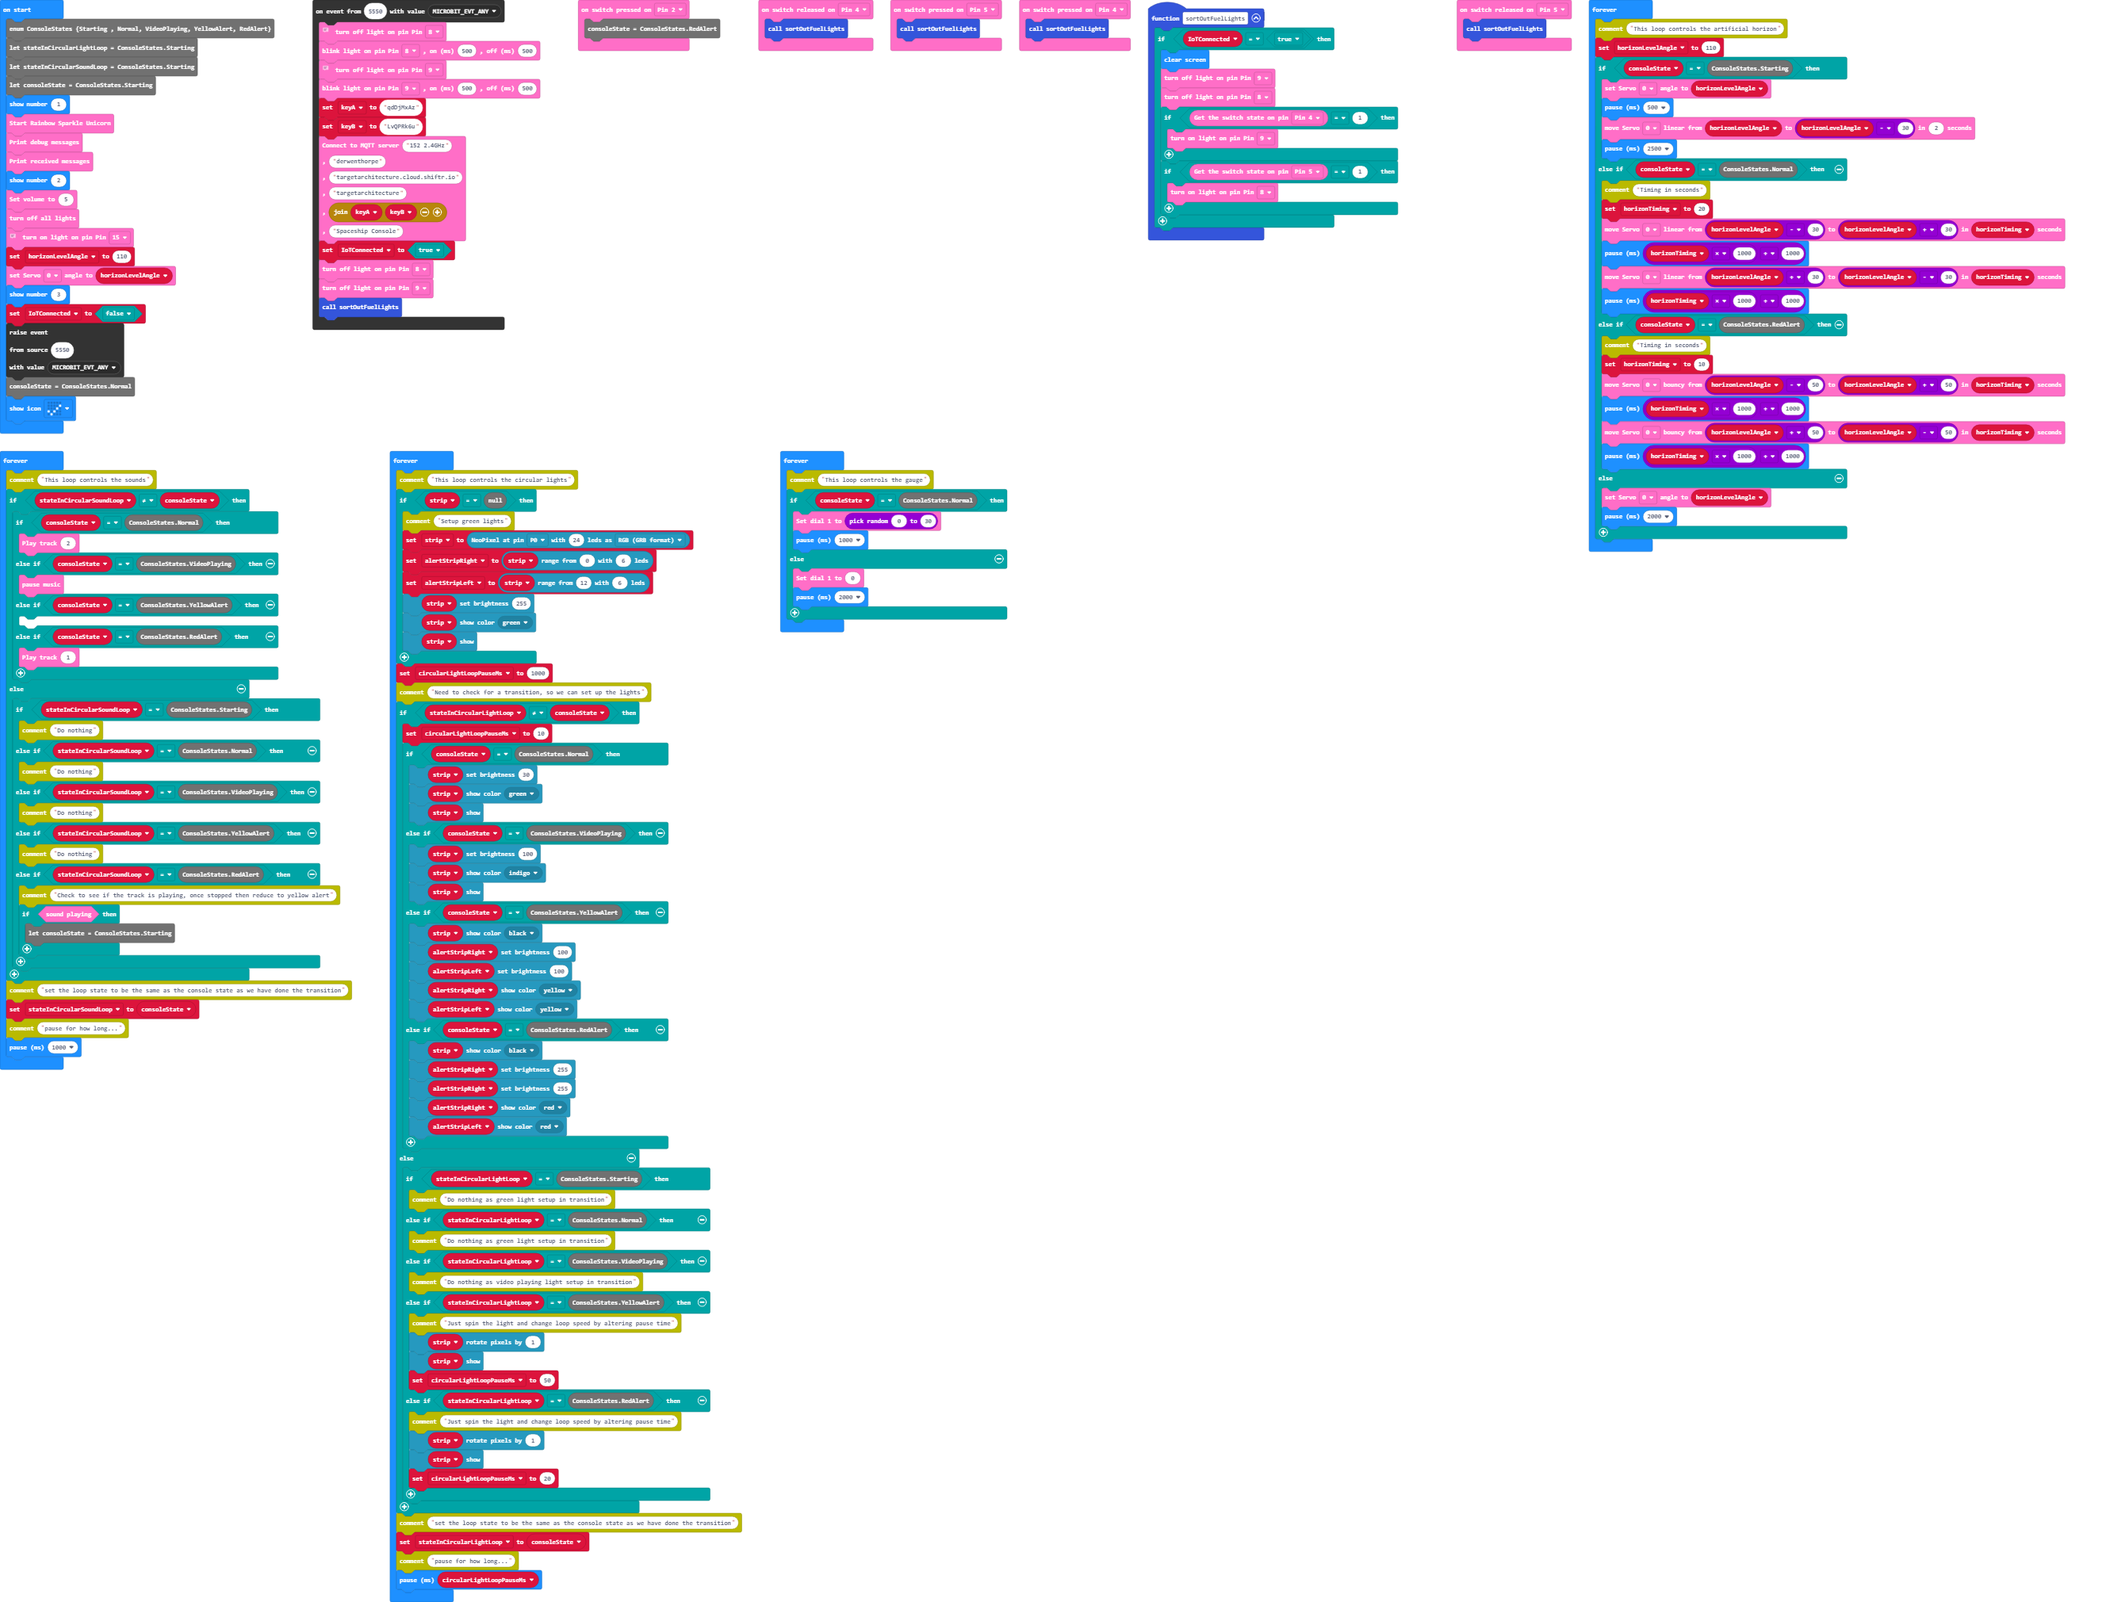
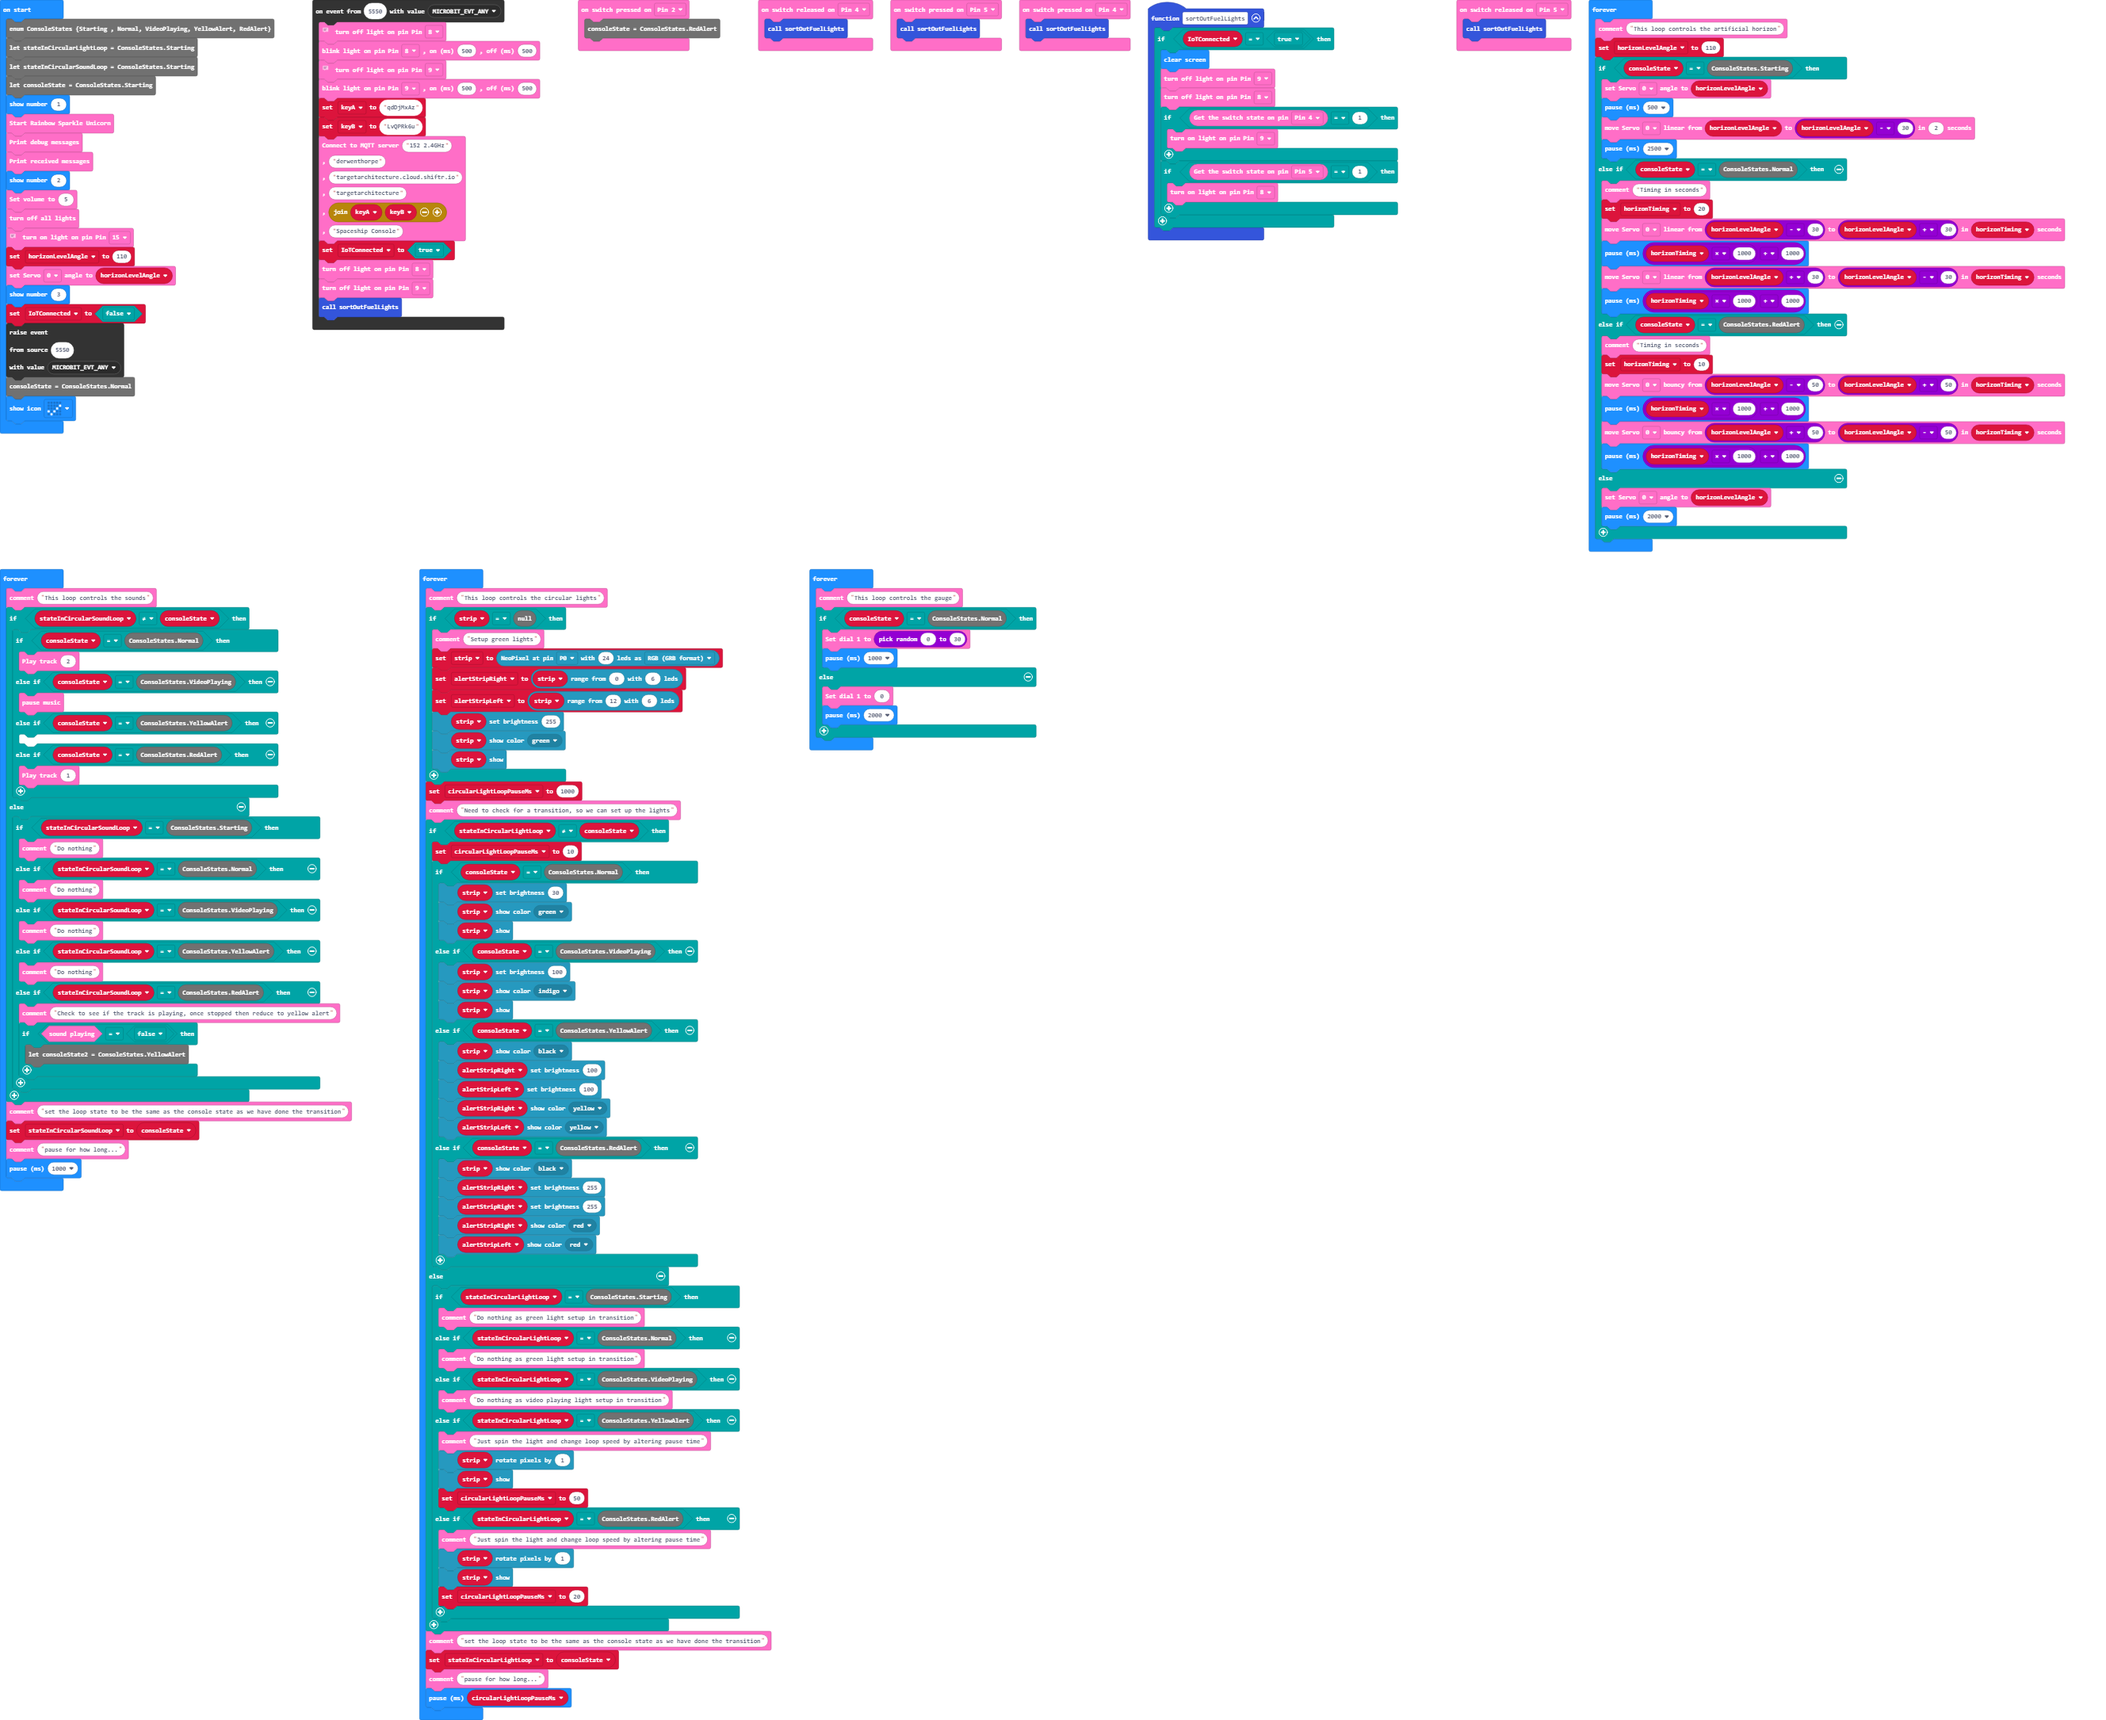
Update pxt.json, main.blocks, main.ts

diff --git a/main.ts b/main.ts
@@ -80,7 +80,7 @@ EventBusValue.MICROBIT_EVT_ANY
 consoleState = ConsoleStates.Normal
 basic.showIcon(IconNames.Yes)
 basic.forever(function () {
-    comment.comment("This loop controls the artificial horizon")
+    RainbowSparkleUnicorn.comment("This loop controls the artificial horizon")
     horizonLevelAngle = 110
     if (consoleState == ConsoleStates.Starting) {
         RainbowSparkleUnicorn.Movement.setServoAngle(Servo.P0, horizonLevelAngle)
@@ -88,14 +88,14 @@ basic.forever(function () {
         RainbowSparkleUnicorn.Movement.moveServoLinear(Servo.P0, horizonLevelAngle, horizonLevelAngle - 30, 2)
         basic.pause(2500)
     } else if (consoleState == ConsoleStates.Normal) {
-        comment.comment("Timing in seconds")
+        RainbowSparkleUnicorn.comment("Timing in seconds")
         horizonTiming = 20
         RainbowSparkleUnicorn.Movement.moveServoLinear(Servo.P0, horizonLevelAngle - 30, horizonLevelAngle + 30, horizonTiming)
         basic.pause(horizonTiming * 1000 + 1000)
         RainbowSparkleUnicorn.Movement.moveServoLinear(Servo.P0, horizonLevelAngle + 30, horizonLevelAngle - 30, horizonTiming)
         basic.pause(horizonTiming * 1000 + 1000)
     } else if (consoleState == ConsoleStates.RedAlert) {
-        comment.comment("Timing in seconds")
+        RainbowSparkleUnicorn.comment("Timing in seconds")
         horizonTiming = 10
         RainbowSparkleUnicorn.Movement.moveServoBouncy(Servo.P0, horizonLevelAngle - 50, horizonLevelAngle + 50, horizonTiming)
         basic.pause(horizonTiming * 1000 + 1000)
@@ -107,7 +107,7 @@ basic.forever(function () {
     }
 })
 basic.forever(function () {
-    comment.comment("This loop controls the sounds")
+    RainbowSparkleUnicorn.comment("This loop controls the sounds")
     if (stateInCircularSoundLoop != consoleState) {
         if (consoleState == ConsoleStates.Normal) {
             RainbowSparkleUnicorn.Sound.playTrack(2)
@@ -120,29 +120,29 @@ basic.forever(function () {
         }
     } else {
         if (stateInCircularSoundLoop == ConsoleStates.Starting) {
-            comment.comment("Do nothing")
+            RainbowSparkleUnicorn.comment("Do nothing")
         } else if (stateInCircularSoundLoop == ConsoleStates.Normal) {
-            comment.comment("Do nothing")
+            RainbowSparkleUnicorn.comment("Do nothing")
         } else if (stateInCircularSoundLoop == ConsoleStates.VideoPlaying) {
-            comment.comment("Do nothing")
+            RainbowSparkleUnicorn.comment("Do nothing")
         } else if (stateInCircularSoundLoop == ConsoleStates.YellowAlert) {
-            comment.comment("Do nothing")
+            RainbowSparkleUnicorn.comment("Do nothing")
         } else if (stateInCircularSoundLoop == ConsoleStates.RedAlert) {
-            comment.comment("Check to see if the track is playing, once stopped then reduce to yellow alert")
+            RainbowSparkleUnicorn.comment("Check to see if the track is playing, once stopped then reduce to yellow alert")
             if (RainbowSparkleUnicorn.Sound.playingSound() == false) {
-                let consoleState = ConsoleStates.YellowAlert
+                let consoleState2 = ConsoleStates.YellowAlert
             }
         }
     }
-    comment.comment("set the loop state to be the same as the console state as we have done the transition")
+    RainbowSparkleUnicorn.comment("set the loop state to be the same as the console state as we have done the transition")
     stateInCircularSoundLoop = consoleState
-    comment.comment("pause for how long...")
+    RainbowSparkleUnicorn.comment("pause for how long...")
     basic.pause(1000)
 })
 basic.forever(function () {
-    comment.comment("This loop controls the circular lights")
+    RainbowSparkleUnicorn.comment("This loop controls the circular lights")
     if (strip == null) {
-        comment.comment("Setup green lights")
+        RainbowSparkleUnicorn.comment("Setup green lights")
         strip = neopixel.create(DigitalPin.P0, 24, NeoPixelMode.RGB)
         alertStripRight = strip.range(0, 6)
         alertStripLeft = strip.range(12, 6)
@@ -151,7 +151,7 @@ basic.forever(function () {
         strip.show()
     }
     circularLightLoopPauseMs = 1000
-    comment.comment("Need to check for a transition, so we can set up the lights")
+    RainbowSparkleUnicorn.comment("Need to check for a transition, so we can set up the lights")
     if (stateInCircularLightLoop != consoleState) {
         circularLightLoopPauseMs = 10
         if (consoleState == ConsoleStates.Normal) {
@@ -177,30 +177,30 @@ basic.forever(function () {
         }
     } else {
         if (stateInCircularLightLoop == ConsoleStates.Starting) {
-            comment.comment("Do nothing as green light setup in transition")
+            RainbowSparkleUnicorn.comment("Do nothing as green light setup in transition")
         } else if (stateInCircularLightLoop == ConsoleStates.Normal) {
-            comment.comment("Do nothing as green light setup in transition")
+            RainbowSparkleUnicorn.comment("Do nothing as green light setup in transition")
         } else if (stateInCircularLightLoop == ConsoleStates.VideoPlaying) {
-            comment.comment("Do nothing as video playing light setup in transition")
+            RainbowSparkleUnicorn.comment("Do nothing as video playing light setup in transition")
         } else if (stateInCircularLightLoop == ConsoleStates.YellowAlert) {
-            comment.comment("Just spin the light and change loop speed by altering pause time")
+            RainbowSparkleUnicorn.comment("Just spin the light and change loop speed by altering pause time")
             strip.rotate(1)
             strip.show()
             circularLightLoopPauseMs = 50
         } else if (stateInCircularLightLoop == ConsoleStates.RedAlert) {
-            comment.comment("Just spin the light and change loop speed by altering pause time")
+            RainbowSparkleUnicorn.comment("Just spin the light and change loop speed by altering pause time")
             strip.rotate(1)
             strip.show()
             circularLightLoopPauseMs = 20
         }
     }
-    comment.comment("set the loop state to be the same as the console state as we have done the transition")
+    RainbowSparkleUnicorn.comment("set the loop state to be the same as the console state as we have done the transition")
     stateInCircularLightLoop = consoleState
-    comment.comment("pause for how long...")
+    RainbowSparkleUnicorn.comment("pause for how long...")
     basic.pause(circularLightLoopPauseMs)
 })
 basic.forever(function () {
-    comment.comment("This loop controls the gauge")
+    RainbowSparkleUnicorn.comment("This loop controls the gauge")
     if (consoleState == ConsoleStates.Normal) {
         RainbowSparkleUnicorn.Controls.dial1(randint(0, 30))
         basic.pause(1000)
